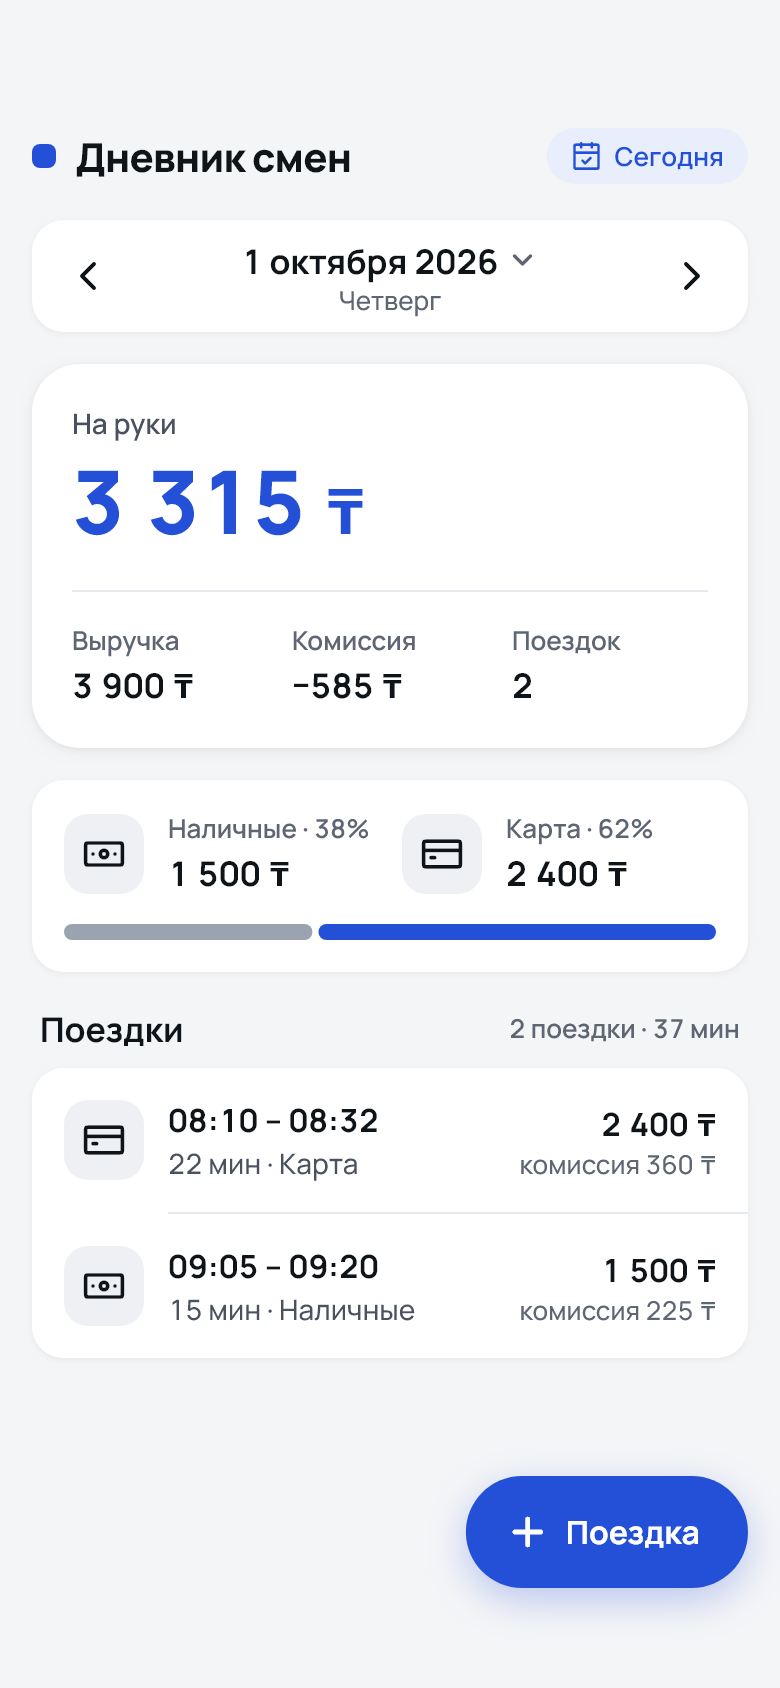
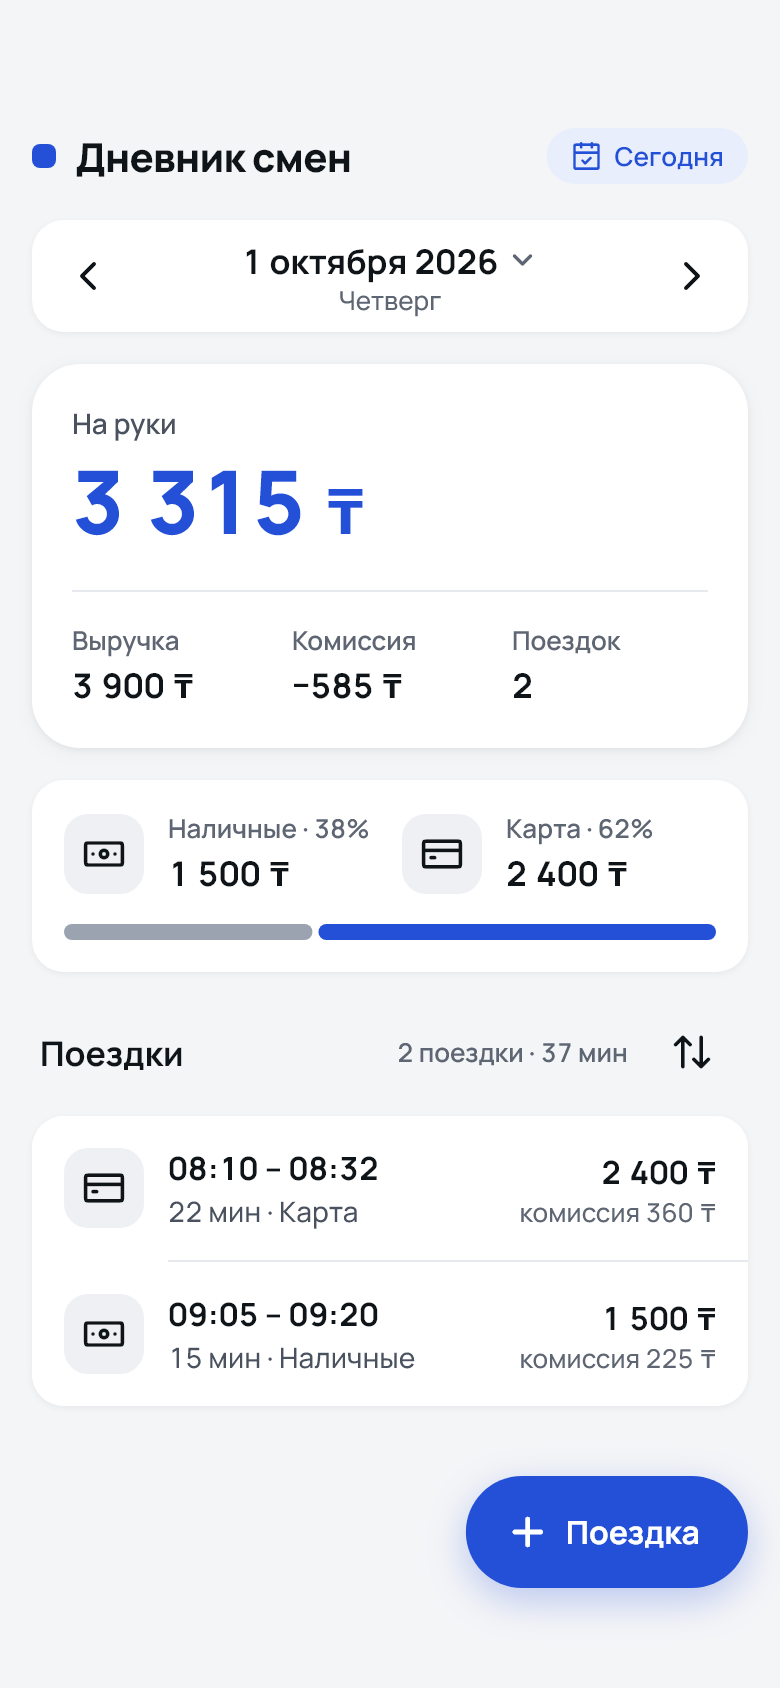
docs: sorting, scroll to a saved trip and the snackbar fix; drop unused screenshots

Changed region(s): [[0.0308, 0.5853, 0.5231, 0.8318], [0.5231, 0.5853, 0.9538, 0.8318], [0.0923, 0.7393, 0.1538, 0.8009]]

diff --git a/README.md b/README.md
@@ -23,7 +23,7 @@
 | Клиент: итоги дня, список поездок, переключение дней | ✅ | `apps/mobile/lib/features/trips/presentation/screens/day_screen.dart`, `apps/mobile/lib/features/trips/domain/entities/daily_summary.dart`, `apps/mobile/lib/features/trips/presentation/providers/trips_providers.dart` | `apps/mobile/test/features/trips/domain/domain_test.dart` («reference case 2026-10-01»); `apps/mobile/test/features/trips/presentation/screens_test.dart` («renders the reference day»); `apps/mobile/test/features/trips/presentation/providers_test.dart` («each day is fetched once…») |
 | Создание поездки с валидацией (сумма > 0, конец позже начала) | ✅ | `apps/mobile/lib/features/trips/presentation/screens/add_trip_screen.dart`, `apps/mobile/lib/features/trips/domain/entities/trip_rules.dart`, `backend/app/domain/trip.py` | `apps/mobile/test/features/trips/presentation/trip_form_test.dart`; `backend/tests/unit/domain/test_trip.py::test_invalid_trip_is_rejected`; `backend/tests/integration/test_api_validation.py` |
 | Нет дублей при повторной отправке | ✅ | `backend/app/infrastructure/repository.py` (`INSERT … ON CONFLICT (id) DO NOTHING`), `backend/app/application/use_cases.py`; в клиенте `AddTripController` в `trips_providers.dart` и повторы в `add_trip_screen.dart` | `backend/tests/integration/test_idempotency.py` (повтор → 200, гонка параллельных POST → одна строка, другие данные → 409); `providers_test.dart` («retrying the same trip after a network error reuses its id»); `apps/mobile/test/features/trips/presentation/form_behaviour_test.dart` («resent with the same id») |
-| Тесты на итоги и на дубли | ✅ | `backend/tests/`, `apps/mobile/test/`, CI в `.github/workflows/ci.yml` | бэкенд: 194 теста; приложение: 207; дизайн-кит: 170. Все проходят в CI |
+| Тесты на итоги и на дубли | ✅ | `backend/tests/`, `apps/mobile/test/`, CI в `.github/workflows/ci.yml` | бэкенд: 194 теста; приложение: 220; дизайн-кит: 177. Все проходят в CI |
 | README, деплой, скриншоты | ✅ | `README.md`, `backend/Dockerfile`, `railway.json`, `docs/screenshots/` | `GET /health` на Railway отвечает 200; скриншоты рендерит `apps/mobile/test/screens/screenshots_test.dart` |
 
 ---
@@ -175,6 +175,11 @@ curl -i -X POST $API/trips -H 'Content-Type: application/json' \
   - При обрыве связи, таймауте или 5xx форма повторяет **ту же поездку с тем же `id`**: через 2, 4 и 8 с, затем каждые 30 с.
   - Кнопка «Повторить» отправляет сразу.
   - Ответ 4xx не повторяется: 422 показывается под полем, 409 открывает диалог.
+- **Удобство на экране дня.**
+  - Кнопка «Сегодня» в шапке.
+  - Выбор даты и времени — колесо в стиле iOS на обеих платформах.
+  - Сортировка поездок: по времени (по умолчанию — сначала ранние) или по сумме.
+  - После сохранения список прокручивается к новой поездке и подсвечивает её.
 - **Голдены и скриншоты.** Голдены кита и экрана дня есть в двух темах. Скриншоты всех состояний рендерятся тестами.
 - **Доступность.**
   - Цели нажатия не меньше 48 dp, у всех элементов есть подписи для скринридера.

diff --git a/docs/AI_NOTES.md b/docs/AI_NOTES.md
@@ -132,6 +132,14 @@
 - **Пуш с красным CI.** После правки строки поездки (мета-строка «30 мин · Наличные» теперь в одну строку) локальные голдены прошли, а CI-голден экрана дня упал (расхождение 1.63 %). В CI-голденах текст рисуется широкими прямоугольниками, и раньше эта строка там переносилась. Я обновил только голдены Windows и не перегенерировал CI-голден на Linux до пуша, хотя README это требует. Исправлено запуском `tool/update_ci_goldens.sh` в Docker. Урок: после любой визуальной правки кита перегенерировать CI-голдены до пуша.
 - **Подпись с долей не помещалась в узкую плитку.** «Наличные · 17%» переносилось на 360 dp. Сначала я проверил только скриншот на 390 dp, где всё помещалось. Отдельный рендер на 360 dp с долей 17/83 показал ту же проблему в строке поездки. Обе строки теперь масштабируются в одну.
 
+- **Снэкбар «Нет связи» висел посреди экрана.**
+  - Форма считала его высоту один раз: «клавиатура + панель + 12».
+  - «Сохранить» закрывает клавиатуру, а ошибка сети приходит, пока клавиатура ещё опускается. Снэкбар оставался на ~300 dp выше кнопки.
+  - Тесты этого не ловили: в них клавиатуры при сохранении не было.
+  - Теперь снэкбар — часть вёрстки формы, над нижней панелью. Регрессионный тест показывает ошибку с отступом клавиатуры 300 dp и затем убирает его. На старом коде зазор был 312 dp вместо 12.
+- **Прокрутка к новой поездке задержала снэкбар.** Сначала я ждал окончания прокрутки и только потом показывал «Поездка добавлена». Существующий тест сразу упал: снэкбара не было. Теперь снэкбар показывается сразу, а прокрутка идёт параллельно. Тест прокрутки проверен и в обратную сторону: без прокрутки новая строка оказывается на y≈2004, за экраном.
+- **Нижний лист выбора времени переполнялся на коротком экране.** Новый тест кита на экране высотой 600 dp упал: Flutter ограничивает модальный лист 9/16 высоты экрана, а содержимому нужно 348 dp. Листы теперь не ограничены по высоте и прокручиваются.
+- **Кнопка сортировки стояла не у края.** Скриншот показал зазор ~30 dp справа: гибкая подпись с итогами оставляла свободное место после кнопки. Исправлена вёрстка заголовка списка, кнопка теперь на одной линии с суммами поездок.
 
 ## Редизайн — где ИИ отошёл от макета или спецификации и как это поймали
 

diff --git a/docs/DECISIONS.md b/docs/DECISIONS.md
@@ -189,5 +189,9 @@ Mockup PNG vs `DESIGN.md`: where they disagree, **DESIGN.md wins** (details and 
 - **«Сегодня» in the header** (`DkTodayButton`, right side of the wordmark row, only while another day is shown) → one tap back to today instead of tapping › several times. Placed on the right so the wordmark keeps its spot; the future Menu button (§8.2) goes after it.
 - **One-line labels**: the payment tile label («Наличные · 17%») and the trip meta («30 мин · Наличные») scale down to fit instead of wrapping onto a second line at 360 dp. *Why:* the wrapped share read as a separate value.
 - **Dialogs are centred** (icon, title, message), max width 400. *Why:* the left-aligned discard dialog looked unbalanced.
+- **The form's offline snackbar is part of the form's layout**, not an overlay entry. *Why:* the overlay version was placed once, at "keyboard height + bar + 12". Save closes the keyboard, the offline error arrives while it is still going down, and the snackbar stayed ~300 dp above Save in the middle of the screen. In a `Stack` above the bottom bar it always sits 12 above Save, with or without the keyboard (regression test: show with a 300 dp inset, then remove it).
+- **A saved trip is scrolled into view** (centred, 300 ms; instant with reduced motion), then highlighted as before. *Why:* in a long day the 2 s highlight happened off screen. The success snackbar is not delayed by the scroll.
+- **Trip sorting: time ↑ (default), time ↓, amount ↓, amount ↑**, from a sort button in the «Поездки» header and an options sheet. The order is kept in memory for all days until restart (not saved to disk: the default is what most drivers want, and a remembered odd order could look like a bug the next morning). Ties keep start order, so rows never jump. Sorting is a presentation concern (`TripOrder` in `presentation/models`); the summary is unaffected.
+- **Bottom sheets are not capped at 9/16 of the screen** (`isScrollControlled`) and scroll if needed. *Why:* a kit test on a 600 dp-high screen showed the time picker sheet overflowing by 11 dp.
 - **Light theme by default** (`App.themeMode = ThemeMode.light`) → the app no longer follows a dark phone setting. The dark theme stays in the kit and in the tests (they pass `ThemeMode.system`). A theme switch can go into the Menu screen planned in the next iteration.
 
